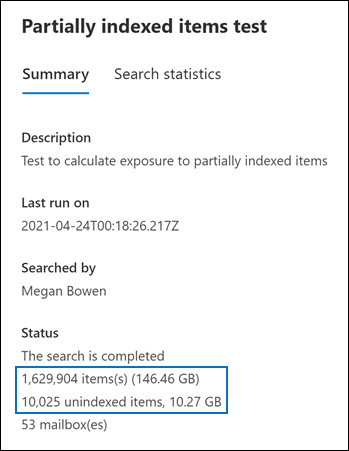
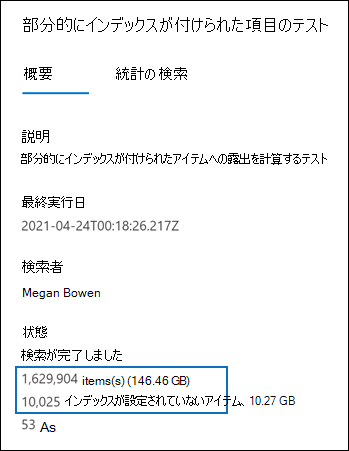
commit translated contents

diff --git a/microsoft-365/security/office-365-security/admin-submission.md b/microsoft-365/security/office-365-security/admin-submission.md
@@ -17,16 +17,16 @@ ms.custom: seo-marvel-apr2020
 description: 管理者は、Microsoft 365 Defender ポータルの提出ポータルを使用して、疑わしいメール、フィッシング詐欺の疑いのあるメール、スパム、その他有害な可能性のあるメッセージ、URL、電子メールの添付ファイルを再スキャン用に Microsoft に送信する方法について説明します。
 ms.technology: mdo
 ms.prod: m365-security
-ms.openlocfilehash: 8e9faf6114551725dc1fc3b8b6af173bbe1e21b4
-ms.sourcegitcommit: ebbe8713297675db5dcb3e0d9c3ae5e746b99196
+ms.openlocfilehash: 09c0e80c8e8632c088aa42af558c90cbf0f0fc71
+ms.sourcegitcommit: f181e110cdb983788a86f30d5bb018e53c83e64d
 ms.translationtype: MT
 ms.contentlocale: ja-JP
-ms.lasthandoff: 05/14/2022
-ms.locfileid: "65417954"
+ms.lasthandoff: 06/13/2022
+ms.locfileid: "66057671"
 ---
 # <a name="use-the-submissions-portal-to-submit-suspected-spam-phish-urls-and-files-to-microsoft"></a>送信ポータルを使用して、疑わしいスパム、フィッシング、URL、ファイルを Microsoft に送信する
 
-[!INCLUDE [Microsoft 365 Defender rebranding](../includes/microsoft-defender-for-office.md)]
+[!INCLUDE [MDO Trial banner](../includes/mdo-trial-banner.md)]
 
 **適用対象**
 - [Exchange Online Protection](exchange-online-protection-overview.md)
@@ -104,8 +104,8 @@ Exchange Online メールボックスを持つ組織Microsoft 365管理者は、
    - **ブロックされていない必要があります (False positive)**
    - **ブロックされている必要があります (False negative)**: 電子 **メールが表示されるセクションとして分類されている必要があります** 。次のいずれかの値を選択します (不明な場合は、最善の判断をしてください)。
      - **フィッシング**
-     - **マルウェア**
-     - **スパム**
+     - **Malware**
+     - **[スパム]**
 
 5. 完了したら、**[送信]** をクリックします。
 
@@ -122,7 +122,7 @@ Exchange Online メールボックスを持つ組織Microsoft 365管理者は、
    - **ブロックされていない必要があります (False positive)**
    - **ブロックされている必要があります (False negative)**: **[この URL は表示されるセクションとして分類されている必要があります** ] で、次のいずれかの値を選択します (わからない場合は、最善の判断をしてください)。
      - **フィッシング**
-     - **マルウェア**
+     - **Malware**
 
 4. 完了したら、**[送信]** をクリックします。
 
@@ -139,7 +139,7 @@ Exchange Online メールボックスを持つ組織Microsoft 365管理者は、
    - **ブロックされていない必要があります (False positive)**
    - **ブロックされている必要があります (False negative)**: **[このファイルは表示されるセクションとして分類されている必要があります** ] で、次のいずれかの値を選択します (不明な場合は、最善の判断をしてください)。
      - **フィッシング**
-     - **マルウェア**
+     - **Malware**
 
 4. 完了したら、**[送信]** をクリックします。
 
@@ -180,7 +180,7 @@ Exchange Online メールボックスを持つ組織Microsoft 365管理者は、
      完了したら、**[適用]** をクリックします。
 
      > [!div class="mx-imgBorder"]
-     > :::image type="content" source="../../media/admin-submission-customize-columns.png" alt-text="管理者申請の [新しいカスタマイズ] 列オプション" lightbox="../../media/admin-submission-customize-columns.png":::
+     > :::image type="content" source="../../media/email-admin-submission-customize-columns.png" alt-text="管理者申請の [新しいカスタマイズ] 列オプション" lightbox="../../media/email-admin-submission-customize-columns.png":::
 
    - エントリをフィルター処理するには、[フィルター] をクリック **します**。 使用できるフィルターは次のとおりです。
      - **送信日**: **開始日** と **終了日**。
@@ -188,7 +188,7 @@ Exchange Online メールボックスを持つ組織Microsoft 365管理者は、
      - **ネットワーク メッセージ ID**
      - **Sender**
      - **[受信者]**
-     - **名前**
+     - **[名前]**
      - **提出者**
      - **送信の理由**
      - **状態**
@@ -197,11 +197,11 @@ Exchange Online メールボックスを持つ組織Microsoft 365管理者は、
      完了したら、**[適用]** をクリックします。
 
      > [!div class="mx-imgBorder"]
-     > :::image type="content" source="../../media/admin-submission-filters.png" alt-text="管理者申請の [新しいフィルター] オプション" lightbox="../../media/admin-submission-filters.png":::
+     > :::image type="content" source="../../media/email-admin-submission-filters.png" alt-text="管理者申請の [新しいフィルター] オプション" lightbox="../../media/email-admin-submission-filters.png":::
 
    - エントリをグループ化するには、[ **グループ化** ] をクリックし、ドロップダウン リストから次のいずれかの値を選択します。
      - **なし**
-     - **Type**
+     - **型**
      - **理由**
      - **状態**
      - **結果**
@@ -287,7 +287,7 @@ Exchange Online メールボックスを持つ組織Microsoft 365管理者は、
 
 ユーザーがカスタム メールボックスに不審な電子メールを送信すると、ユーザーと管理者は送信を元に戻すオプションを持っていません。 ユーザーが電子メールを回復する場合は、[削除済みアイテム] フォルダーまたは [迷惑メール] フォルダーで回復できます。
 
-### <a name="converting-user-reported-messages-from-the-custom-mailbox-into-an-admin-submission"></a>ユーザーが報告したメッセージをカスタム メールボックスから管理者の提出に変換する
+### <a name="convert-user-reported-messages-from-the-custom-mailbox-into-an-admin-submission"></a>ユーザーが報告したメッセージをカスタム メールボックスから管理者の提出に変換する
 
 Microsoft にメッセージを送信せずにユーザーから報告されたメッセージをインターセプトするようにカスタム メールボックスを構成した場合は、分析のために特定のメッセージを見つけて Microsoft に送信できます。
 

diff --git a/microsoft-365/security/defender/supported-event-types.md b/microsoft-365/security/defender/supported-event-types.md
@@ -16,12 +16,12 @@ audience: ITPro
 ms.collection: M365-security-compliance
 ms.topic: article
 ms.technology: mde
-ms.openlocfilehash: e8264ccb9e3181f6b58a6206417eb2b842bec6e7
-ms.sourcegitcommit: 317fab13e84b2867087a6ba0a593313ecf43bbed
+ms.openlocfilehash: 4f6f098c9d2ec09a777110955b8acb1663e102ed
+ms.sourcegitcommit: f181e110cdb983788a86f30d5bb018e53c83e64d
 ms.translationtype: MT
 ms.contentlocale: ja-JP
-ms.lasthandoff: 10/15/2021
-ms.locfileid: "60364798"
+ms.lasthandoff: 06/13/2022
+ms.locfileid: "66057853"
 ---
 # <a name="supported-microsoft-365-defender-streaming-event-types-in-event-streaming-api"></a>イベント ストリーミング API でサポートされているMicrosoft 365 Defenderストリーミング イベントの種類
 
@@ -40,24 +40,25 @@ Event Streaming API は、より多くのイベントの種類をサポートす
 
 次の表には、ストリーミング API でサポートされているテーブルの一覧のみが含まれており、すべての AH スキーマを含むわけではありません。 API の完全な一覧については、「 [スキーマ テーブルについて」を](advanced-hunting-schema-tables.md#learn-the-schema-tables)参照してください。
 
-
-| テーブル名 | 状態 |
-|------------|-------------|
-| **[AlertEvidence](advanced-hunting-alertevidence-table.md)** | GA |
-| **[AlertInfo](advanced-hunting-alertinfo-table.md)** | GA  |
-| **[DeviceEvents](advanced-hunting-deviceevents-table.md)** |GA |
-| **[DeviceFileCertificateInfo](advanced-hunting-DeviceFileCertificateInfo-table.md)** |GA |
-| **[DeviceFileEvents](advanced-hunting-devicefileevents-table.md)** | GA |
-| **[DeviceImageLoadEvents](advanced-hunting-deviceimageloadevents-table.md)** | GA |
-| **[DeviceInfo](advanced-hunting-deviceinfo-table.md)** | GA |
-| **[DeviceLogonEvents](advanced-hunting-devicelogonevents-table.md)** | GA |
-| **[DeviceNetworkEvents](advanced-hunting-devicenetworkevents-table.md)** |GA |
-| **[DeviceNetworkInfo](advanced-hunting-devicenetworkinfo-table.md)** | GA |
-| **[DeviceProcessEvents](advanced-hunting-deviceprocessevents-table.md)** | GA |
-| **[DeviceRegistryEvents](advanced-hunting-deviceregistryevents-table.md)** | GA |
-| **[EmailAttachmentInfo](advanced-hunting-emailattachmentinfo-table.md)** | GA |
-| **[EmailEvents](advanced-hunting-emailevents-table.md)** | GA |
-| **[EmailPostDeliveryEvents](advanced-hunting-emailpostdeliveryevents-table.md)** | GA |
-| **[EmailUrlInfo](advanced-hunting-emailurlinfo-table.md)** | GA |
-
-
+| テーブル名 | 状態<br>(商用) | GCC | GCC High | DoD |
+|----|----|----|----|----|
+| **[AlertEvidence](advanced-hunting-alertevidence-table.md)** | GA | GA | GA | GA |
+| **[AlertInfo](advanced-hunting-alertinfo-table.md)** | GA | GA | GA | GA |
+| **[DeviceEvents](advanced-hunting-deviceevents-table.md)** |GA | GA | GA | GA |
+| **[DeviceFileCertificateInfo](advanced-hunting-DeviceFileCertificateInfo-table.md)** |GA | GA | GA | GA |
+| **[DeviceFileEvents](advanced-hunting-devicefileevents-table.md)** | GA | GA | GA | GA |
+| **[DeviceImageLoadEvents](advanced-hunting-deviceimageloadevents-table.md)** | GA | GA | GA | GA |
+| **[DeviceInfo](advanced-hunting-deviceinfo-table.md)** | GA | GA | GA | GA |
+| **[DeviceLogonEvents](advanced-hunting-devicelogonevents-table.md)** | GA | GA | GA | GA |
+| **[DeviceNetworkEvents](advanced-hunting-devicenetworkevents-table.md)** |GA | GA | GA | GA |
+| **[DeviceNetworkInfo](advanced-hunting-devicenetworkinfo-table.md)** | GA | GA | GA | GA |
+| **[DeviceProcessEvents](advanced-hunting-deviceprocessevents-table.md)** | GA | GA | GA | GA |
+| **[DeviceRegistryEvents](advanced-hunting-deviceregistryevents-table.md)** | GA | GA | GA | GA |
+| **[EmailAttachmentInfo](advanced-hunting-emailattachmentinfo-table.md)** | GA |![いいえ](../defender-endpoint/images/svg/check-no.svg)|![いいえ](../defender-endpoint/images/svg/check-no.svg)|![いいえ](../defender-endpoint/images/svg/check-no.svg)|
+| **[EmailEvents](advanced-hunting-emailevents-table.md)** | GA |![いいえ](../defender-endpoint/images/svg/check-no.svg)|![いいえ](../defender-endpoint/images/svg/check-no.svg)|![いいえ](../defender-endpoint/images/svg/check-no.svg)|
+| **[EmailPostDeliveryEvents](advanced-hunting-emailpostdeliveryevents-table.md)** | GA |![いいえ](../defender-endpoint/images/svg/check-no.svg)|![いいえ](../defender-endpoint/images/svg/check-no.svg)|![いいえ](../defender-endpoint/images/svg/check-no.svg)|
+| **[EmailUrlInfo](advanced-hunting-emailurlinfo-table.md)** | GA |![いいえ](../defender-endpoint/images/svg/check-no.svg)|![いいえ](../defender-endpoint/images/svg/check-no.svg)|![いいえ](../defender-endpoint/images/svg/check-no.svg)|
+| **[IdentityLogonEvents](advanced-hunting-identitylogonevents-table.md)**|GA|![いいえ](../defender-endpoint/images/svg/check-no.svg)|![いいえ](../defender-endpoint/images/svg/check-no.svg)|![いいえ](../defender-endpoint/images/svg/check-no.svg)|
+| **[IdentityQueryEvents](advanced-hunting-identityqueryevents-table.md)**|GA|![いいえ](../defender-endpoint/images/svg/check-no.svg)|![いいえ](../defender-endpoint/images/svg/check-no.svg)|![いいえ](../defender-endpoint/images/svg/check-no.svg)|
+| **[IdentityDirectoryEvents](advanced-hunting-identitydirectoryevents-table.md)**|GA|![いいえ](../defender-endpoint/images/svg/check-no.svg)|![いいえ](../defender-endpoint/images/svg/check-no.svg)|![いいえ](../defender-endpoint/images/svg/check-no.svg)|
+| **[CloudAppEvents](advanced-hunting-cloudappevents-table.md)**|GA|![いいえ](../defender-endpoint/images/svg/check-no.svg)|![いいえ](../defender-endpoint/images/svg/check-no.svg)|![いいえ](../defender-endpoint/images/svg/check-no.svg)|

diff --git a/microsoft-365/lighthouse/m365-lighthouse-troubleshoot.md b/microsoft-365/lighthouse/m365-lighthouse-troubleshoot.md
@@ -17,12 +17,12 @@ ms.custom:
 - M365-Lighthouse
 search.appverid: MET150
 description: Microsoft 365 Lighthouseを使用するマネージド サービス プロバイダー (MSP) の場合は、エラー メッセージと問題のトラブルシューティングに関するヘルプを参照してください。
-ms.openlocfilehash: 6508e3aca49bb2047d2f04a60c469d7b0888f765
-ms.sourcegitcommit: 133bf9097785309da45df6f374a712a48b33f8e9
+ms.openlocfilehash: a93e6816effdc68253c4ec465fa79213258d7581
+ms.sourcegitcommit: f181e110cdb983788a86f30d5bb018e53c83e64d
 ms.translationtype: MT
 ms.contentlocale: ja-JP
-ms.lasthandoff: 06/10/2022
-ms.locfileid: "66011906"
+ms.lasthandoff: 06/13/2022
+ms.locfileid: "66057831"
 ---
 # <a name="troubleshoot-error-messages-and-problems-in-microsoft-365-lighthouse"></a>Microsoft 365 Lighthouseのエラー メッセージと問題のトラブルシューティング
 
@@ -56,7 +56,7 @@ ms.locfileid: "66011906"
 
 - カスタマー テナントを管理できるようにするには、マネージド サービス プロバイダー (MSP) に対して委任されたアクセスが設定されている必要があります*
 - 少なくとも 1 つのMicrosoft 365 Business Premium、Microsoft 365 E3、Microsoft 365 E5、Windows 365 Business、またはMicrosoft Defender for Businessライセンス
-- ライセンスを持つユーザーが 1,000 人以下である必要があります 
+- ライセンスを持つユーザーが 2500 人以下である必要があります 
 
 **解像 度：** 次の表では、アクションを必要とするさまざまなテナントの状態と、それらを解決する方法について説明します。
 
@@ -67,7 +67,7 @@ ms.locfileid: "66011906"
 | 非アクティブ | テナントは MSP の要求でオフボードされ、ライトハウスで管理されなくなりました。 | テナントを再アクティブ化する必要があります。 [ **テナント** ] ページで、再アクティブ化するテナントの横にある 3 つのドット (その他のアクション) を選択し、[ **テナントのアクティブ化**] を選択します。 最初の顧客データが Lighthouse に表示されるまでに 24 ~ 48 時間かかる場合があります。 |
 | 不適格 - DAP または GDAP が設定されていません | テナントで設定された DAP または GDAP および間接リセラー管理特権はありません。これは Lighthouse で必要です。 | Microsoft パートナー センターで DAP または GDAP および間接リセラーの管理者特権を設定します。 |
 | 不適格 - 必要なライセンスがありません | テナントに必要なライセンスがありません。 少なくとも 1 つのMicrosoft 365 Business Premium、Microsoft 365 E3、Microsoft 365 E5、またはMicrosoft Defender for Businessライセンスが必要です。 | テナントに少なくとも 1 つのMicrosoft 365 Business Premium、Microsoft 365 E3、Microsoft 365 E5、Windows 365 Business、またはMicrosoft Defender for Businessライセンスが割り当てられます。 |
-| 不適格 - ユーザー数が超過しました | テナントには、Lighthouse で許可されているライセンスユーザーの最大数が 1,000 人を超えています。 | テナントにライセンスを持つユーザーが 1000 人を超えていないことを確認します。 |
+| 不適格 - ユーザー数が超過しました | テナントには、Lighthouse で許可されているライセンスユーザーの最大数が 2,500 人を超えています。 | テナントに 2500 を超えるライセンス ユーザーが含まれていないことを確認します。 |
 | 不適格 - geo チェックに失敗しました | ユーザーと顧客は、Lighthouse で必要とされる同じ地理的リージョンに存在しません。 | 顧客が地理的リージョンに存在することを確認します。 そうでない場合は、Lighthouse でテナントを管理することはできません。 |
 | 処理中 | Lighthouse はテナントを検出しましたが、まだオンボード中です。 | Lighthouse がテナントのオンボードを完了するまでに 48 時間かかります。 |
 

diff --git a/microsoft-365/security/defender/usgov.md b/microsoft-365/security/defender/usgov.md
@@ -16,12 +16,12 @@ audience: ITPro
 ms.collection: M365-security-compliance
 ms.topic: conceptual
 ms.technology: m365d
-ms.openlocfilehash: 3e8f6e523a5483de99beb0af7d01ab96951b7a3e
-ms.sourcegitcommit: 0ee2dabe402d44fecb6856af98a2ef7720d25189
+ms.openlocfilehash: 53fc78159580a27a8af04009f4e5ecd5b18bc4e8
+ms.sourcegitcommit: f181e110cdb983788a86f30d5bb018e53c83e64d
 ms.translationtype: MT
 ms.contentlocale: ja-JP
-ms.lasthandoff: 12/09/2021
-ms.locfileid: "61375336"
+ms.lasthandoff: 06/13/2022
+ms.locfileid: "66057585"
 ---
 # <a name="microsoft-365-defender-for-us-government-customers"></a>Microsoft 365 Defender for US Government のお客様
 
@@ -113,12 +113,15 @@ Azure US Government 環境に組み込まれている米国政府機関のお客
 
 |フィーチャー名|GCC|GCC High|DoD|
 |---|:---:|:---:|:---:|
-|統合: Microsoft Sentinel (インシデント&未加工データ)|![はい](../defender-endpoint/images/svg/check-yes.svg)|![はい](../defender-endpoint/images/svg/check-yes.svg) プライベート プレビュー|![はい](../defender-endpoint/images/svg/check-yes.svg) プライベート プレビュー|
+|統合: Microsoft Sentinel (インシデント&未加工データ)|![はい](../defender-endpoint/images/svg/check-yes.svg) パブリック プレビュー段階|![はい](../defender-endpoint/images/svg/check-yes.svg) パブリック プレビュー段階|![はい](../defender-endpoint/images/svg/check-yes.svg) パブリック プレビュー段階|
 |Microsoft 脅威エキスパート|![いいえ](../defender-endpoint/images/svg/check-no.svg) エンジニアリング バックログについて|![いいえ](../defender-endpoint/images/svg/check-no.svg) エンジニアリング バックログについて|![いいえ](../defender-endpoint/images/svg/check-no.svg) エンジニアリング バックログについて|
+
+Event Streaming API テーブルの詳細な一覧については、Event Streaming API [でサポートされているストリーミング イベントの種類Microsoft 365 Defenderを](supported-event-types.md)参照してください。
 
 ## <a name="more-details"></a>詳細情報
 
 詳細については、個々のワークロードの US Gov ページを参照してください。
+
 - [Microsoft Defender for Cloud Apps](/enterprise-mobility-security/solutions/ems-cloud-app-security-govt-service-description)。
 - [Microsoft Defender for Identity](/enterprise-mobility-security/solutions/ems-mdi-govt-service-description)。
 - [Microsoft Defender for Endpoint](/microsoft-365/security/defender-endpoint/gov)。

diff --git a/microsoft-365/lighthouse/m365-lighthouse-requirements.md b/microsoft-365/lighthouse/m365-lighthouse-requirements.md
@@ -17,12 +17,12 @@ ms.custom:
 - M365-Lighthouse
 search.appverid: MET150
 description: マネージド サービス プロバイダー (MSP) の場合は、Microsoft 365 Lighthouseを使用するための要件の一覧を取得します。
-ms.openlocfilehash: 4dae28206ba06b8e942290da29ba6a86b49ca7fd
-ms.sourcegitcommit: 133bf9097785309da45df6f374a712a48b33f8e9
+ms.openlocfilehash: 27d5440b70916ebdb3b761ac4308d3b97ccb27da
+ms.sourcegitcommit: f181e110cdb983788a86f30d5bb018e53c83e64d
 ms.translationtype: MT
 ms.contentlocale: ja-JP
-ms.lasthandoff: 06/10/2022
-ms.locfileid: "66017546"
+ms.lasthandoff: 06/13/2022
+ms.locfileid: "66057776"
 ---
 # <a name="requirements-for-microsoft-365-lighthouse"></a>Microsoft 365 Lighthouseの要件
 
@@ -34,7 +34,7 @@ Microsoft 365 Lighthouseは、マネージド サービス プロバイダー (M
 
 - カスタマー テナントを管理できるようにするには、マネージド サービス プロバイダー (MSP) に対して委任されたアクセスが設定されている必要があります*
 - 少なくとも 1 つのMicrosoft 365 Business Premium、Microsoft 365 E3、Microsoft 365 E5、Windows 365 Business、またはMicrosoft Defender for Businessライセンス
-- ライセンスを持つユーザーが 1,000 人以下である必要があります
+- ライセンスを持つユーザーが 2500 人以下である必要があります
 
 顧客を Lighthouse にオンボードするには、詳細な代理管理特権 (GDAP) と間接リセラー関係、または代理管理特権 (DAP) リレーションシップのいずれかが必要です。 顧客テナントに DAP と GDAP が共存する場合、GDAP 対応のセキュリティ グループの MSP 技術者には、GDAP アクセス許可が優先されます。 近日、GDAP のみのリレーションシップ (間接リセラー関係なし) を持つお客様は、Lighthouse にオンボードできるようになります。
 

diff --git a/microsoft-365/compliance/bulk-create-publish-labels-using-powershell.md b/microsoft-365/compliance/bulk-create-publish-labels-using-powershell.md
@@ -19,12 +19,12 @@ search.appverid:
 ms.custom:
 - seo-marvel-apr2020
 description: PowerShell を使用して、Microsoft Purview コンプライアンス ポータルとは別に、コマンド ラインから保持ラベルを作成および発行する方法について説明します。
-ms.openlocfilehash: 7d650c87aad92cdb65ed9a40c98c8fc3c94e01fb
-ms.sourcegitcommit: 5c64002236561000c5bd63c71423e8099e803c2d
+ms.openlocfilehash: f2a01024f6c2a05eb5d584112f9a828ac2c3058c
+ms.sourcegitcommit: 133bf9097785309da45df6f374a712a48b33f8e9
 ms.translationtype: HT
 ms.contentlocale: ja-JP
-ms.lasthandoff: 05/09/2022
-ms.locfileid: "65287158"
+ms.lasthandoff: 06/10/2022
+ms.locfileid: "66011762"
 ---
 # <a name="create-and-publish-retention-labels-by-using-powershell"></a>PowerShell を使用して保持ラベルを作成および発行する
 
@@ -739,11 +739,11 @@ if ($ResultCSV)
 
 ## <a name="step-4-run-the-powershell-script"></a>手順 4: PowerShell スクリプトを実行する
 
-まず、[セキュリティ/コンプライアンス センターの PowerShell に接続](/powershell/exchange/connect-to-scc-powershell)します。
+まず、[セキュリティとコンプライアンス PowerShell に接続します](/powershell/exchange/connect-to-scc-powershell)。
 
 次に、保持ラベルを作成および発行するスクリプトを実行します。
   
-1. セキュリティ/コンプライアンス センターの PowerShell セッションで、パスを入力し、その後ろに文字 `.\` とスクリプトのファイル名を入力し、Enter キーを押してスクリプトを実行します。例:
+1. セキュリティとコンプライアンス センターの PowerShell セッションで、パスを入力し、その後ろに文字 `.\` とスクリプトのファイル名を入力し、［Enter］ キーを押してスクリプトを実行します。 例:
     
     ```powershell
     <path>.\CreateRetentionSchedule.ps1

diff --git a/microsoft-365/lti/open-lms-plugin-configuration.md b/microsoft-365/lti/open-lms-plugin-configuration.md
@@ -12,21 +12,16 @@ f1.keywords:
 ms.collection: M365-modern-desktop
 ms.localizationpriority: medium
 description: Moodle プラグインを設定して構成することで、One LMS とMicrosoft Teamsを統合する準備を整えます。
-ms.openlocfilehash: d171ee2afcb459ae34dfcd660b6585073cf86806
-ms.sourcegitcommit: a7c1acfb3d2cbba913e32493b16ebd8cbfeee456
+ms.openlocfilehash: e59d9298d61060f4d898e773cc5800d32e86bebf
+ms.sourcegitcommit: f181e110cdb983788a86f30d5bb018e53c83e64d
 ms.translationtype: MT
 ms.contentlocale: ja-JP
 ms.lasthandoff: 06/13/2022
-ms.locfileid: "66044463"
+ms.locfileid: "66057734"
 ---
 # <a name="set-up-and-configure-the-moodle-plugin"></a>Moodle プラグインを設定して構成する
 
 この記事では、Open LMS エクスペリエンスにMicrosoft Teamsを組み込むために、Moodle プラグインをインストールして構成する方法について説明します。
-
-> [!NOTE]
-> 現時点では、Open LMS と Microsoft Teams LTI 統合はプライベート プレビューでのみ使用できます。
->
->プライベート プレビュー プログラムに参加する場合は、 [ここでサインアップしてください](https://m365crmedu.powerappsportals.com/LMSSignup)
 
 ## <a name="prerequisites"></a>前提条件
 
